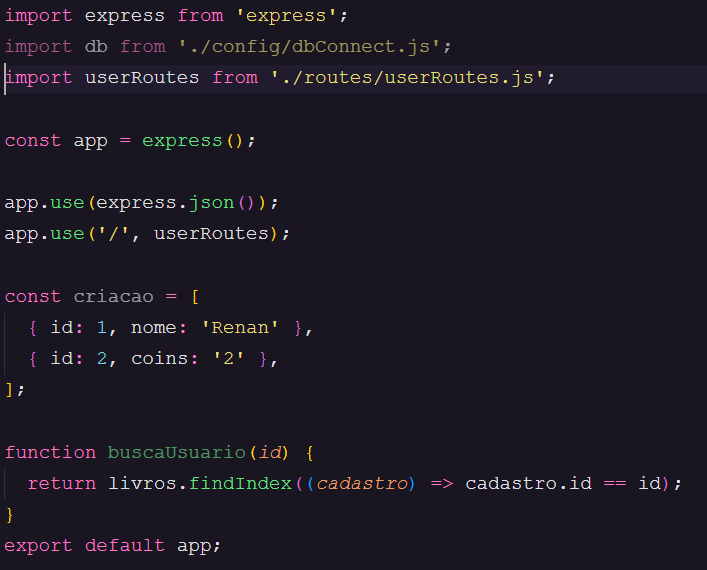
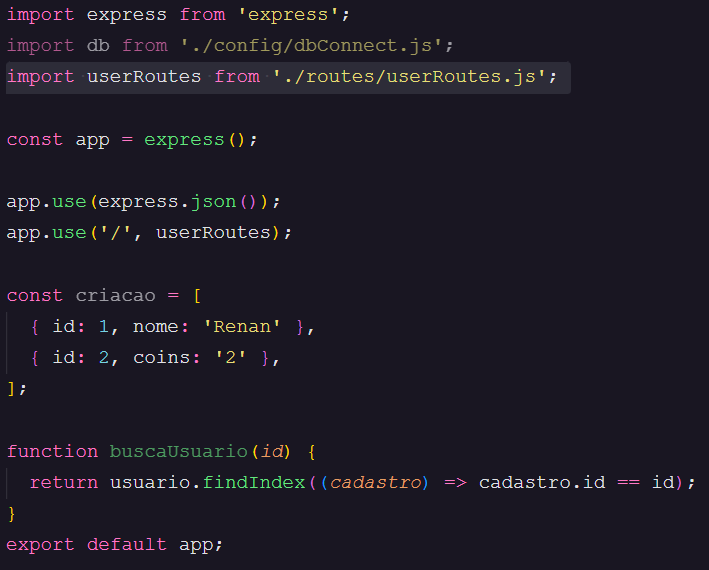
ajustes de imagens e nomenclaturas

diff --git a/src/app.js b/src/app.js
@@ -13,6 +13,6 @@ const criacao = [
 ];
 
 function buscaUsuario(id) {
-  return livros.findIndex((cadastro) => cadastro.id == id);
+  return usuario.findIndex((cadastro) => cadastro.id == id);
 }
 export default app;
